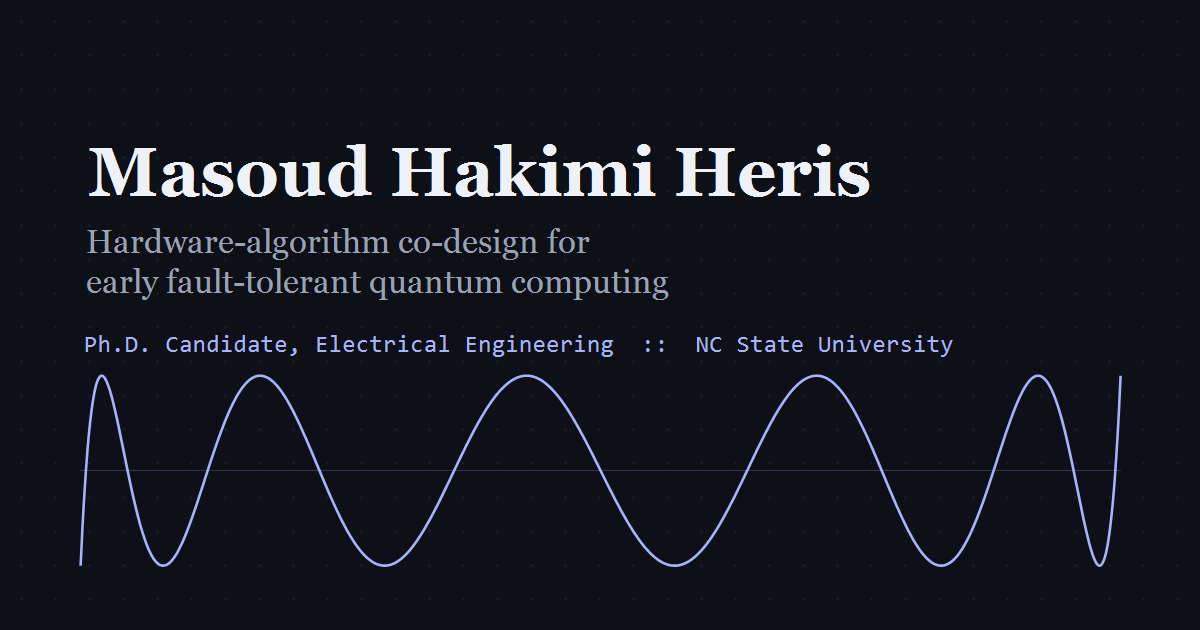
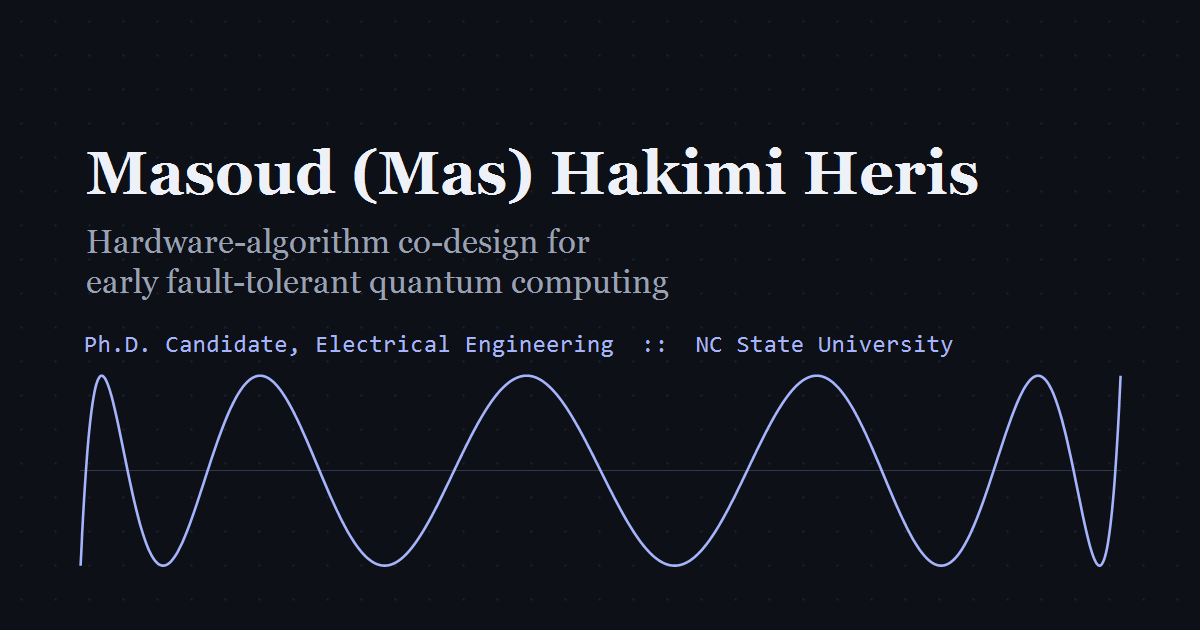
Use "Masoud (Mas) Hakimi Heris" in the title, "Mas" elsewhere
Page title, h1, and the OG/Twitter titles now carry the full form with
the nickname. Secondary references (author meta, og:site_name, image alt
text, footer) use "Mas Hakimi Heris". Regenerated og-image.png to match.

Publication entries keep the citation form "M. Hakimi Heris", and the
JSON-LD keeps "Masoud Hakimi Heris" as the canonical name so citations
resolve to one person; both nickname variants remain in alternateName.

Changed region(s): [[0.0617, 0.2111, 0.8325, 0.3317]]

diff --git a/index.html b/index.html
@@ -3,29 +3,29 @@
 <head>
   <meta charset="UTF-8">
   <meta name="viewport" content="width=device-width, initial-scale=1.0">
-  <title>Masoud Hakimi Heris — Quantum Computing, NC State</title>
+  <title>Masoud (Mas) Hakimi Heris — Quantum Computing, NC State</title>
   <meta name="description" content="Ph.D. candidate at NC State working on hardware-algorithm co-design for early fault-tolerant quantum computing, from trapped-ion instruction sets to QSP.">
-  <meta name="author" content="Masoud Hakimi Heris">
+  <meta name="author" content="Mas Hakimi Heris">
   <link rel="canonical" href="https://mhakimih1988.github.io/">
   <link rel="icon" href="favicon.svg" type="image/svg+xml">
 
   <meta property="og:type" content="profile">
-  <meta property="og:site_name" content="Masoud Hakimi Heris">
-  <meta property="og:title" content="Masoud Hakimi Heris — Quantum Computing, NC State">
+  <meta property="og:site_name" content="Mas Hakimi Heris">
+  <meta property="og:title" content="Masoud (Mas) Hakimi Heris — Quantum Computing, NC State">
   <meta property="og:description" content="Ph.D. candidate at NC State working on hardware-algorithm co-design for early fault-tolerant quantum computing, from trapped-ion instruction sets to QSP.">
   <meta property="og:url" content="https://mhakimih1988.github.io/">
   <meta property="og:image" content="https://mhakimih1988.github.io/og-image.png">
   <meta property="og:image:width" content="1200">
   <meta property="og:image:height" content="630">
-  <meta property="og:image:alt" content="Masoud Hakimi Heris, hardware-algorithm co-design for early fault-tolerant quantum computing, NC State University, over a plot of a quantum signal processing transfer function.">
+  <meta property="og:image:alt" content="Mas Hakimi Heris, hardware-algorithm co-design for early fault-tolerant quantum computing, NC State University, over a plot of a quantum signal processing transfer function.">
   <meta property="profile:first_name" content="Masoud">
   <meta property="profile:last_name" content="Hakimi Heris">
 
   <meta name="twitter:card" content="summary_large_image">
-  <meta name="twitter:title" content="Masoud Hakimi Heris — Quantum Computing, NC State">
+  <meta name="twitter:title" content="Masoud (Mas) Hakimi Heris — Quantum Computing, NC State">
   <meta name="twitter:description" content="Ph.D. candidate at NC State working on hardware-algorithm co-design for early fault-tolerant quantum computing, from trapped-ion instruction sets to QSP.">
   <meta name="twitter:image" content="https://mhakimih1988.github.io/og-image.png">
-  <meta name="twitter:image:alt" content="Masoud Hakimi Heris, hardware-algorithm co-design for early fault-tolerant quantum computing, NC State University, over a plot of a quantum signal processing transfer function.">
+  <meta name="twitter:image:alt" content="Mas Hakimi Heris, hardware-algorithm co-design for early fault-tolerant quantum computing, NC State University, over a plot of a quantum signal processing transfer function.">
 
   <script type="application/ld+json">
   {
@@ -533,12 +533,12 @@
 
   <header id="top" class="site-header wrap">
     <div class="profile">
-      <img src="mash.jpg" width="150" height="150" alt="Portrait of Masoud Hakimi Heris">
+      <img src="mash.jpg" width="150" height="150" alt="Portrait of Mas Hakimi Heris">
       <div class="profile-info">
-        <h1>Masoud Hakimi Heris</h1>
+        <h1>Masoud (Mas) Hakimi Heris</h1>
         <p class="role">Ph.D. Candidate, Electrical Engineering — expected May 2027</p>
         <p class="affil">North Carolina State University</p>
-        <p class="affil">Goes by Mas · publishes as M. Hakimi Heris</p>
+        <p class="affil">Publishes as M. Hakimi Heris</p>
         <ul class="profile-links">
           <li><a class="btn btn-sm" href="cv.pdf">CV (PDF)</a></li>
           <li><a href="mailto:mhakimi@ncsu.edu">Email</a></li>
@@ -814,7 +814,7 @@
   </main>
 
   <footer class="site-footer wrap">
-    <p>&copy; 2026 Masoud Hakimi Heris</p>
+    <p>&copy; 2026 Mas Hakimi Heris</p>
   </footer>
 
 </body>
